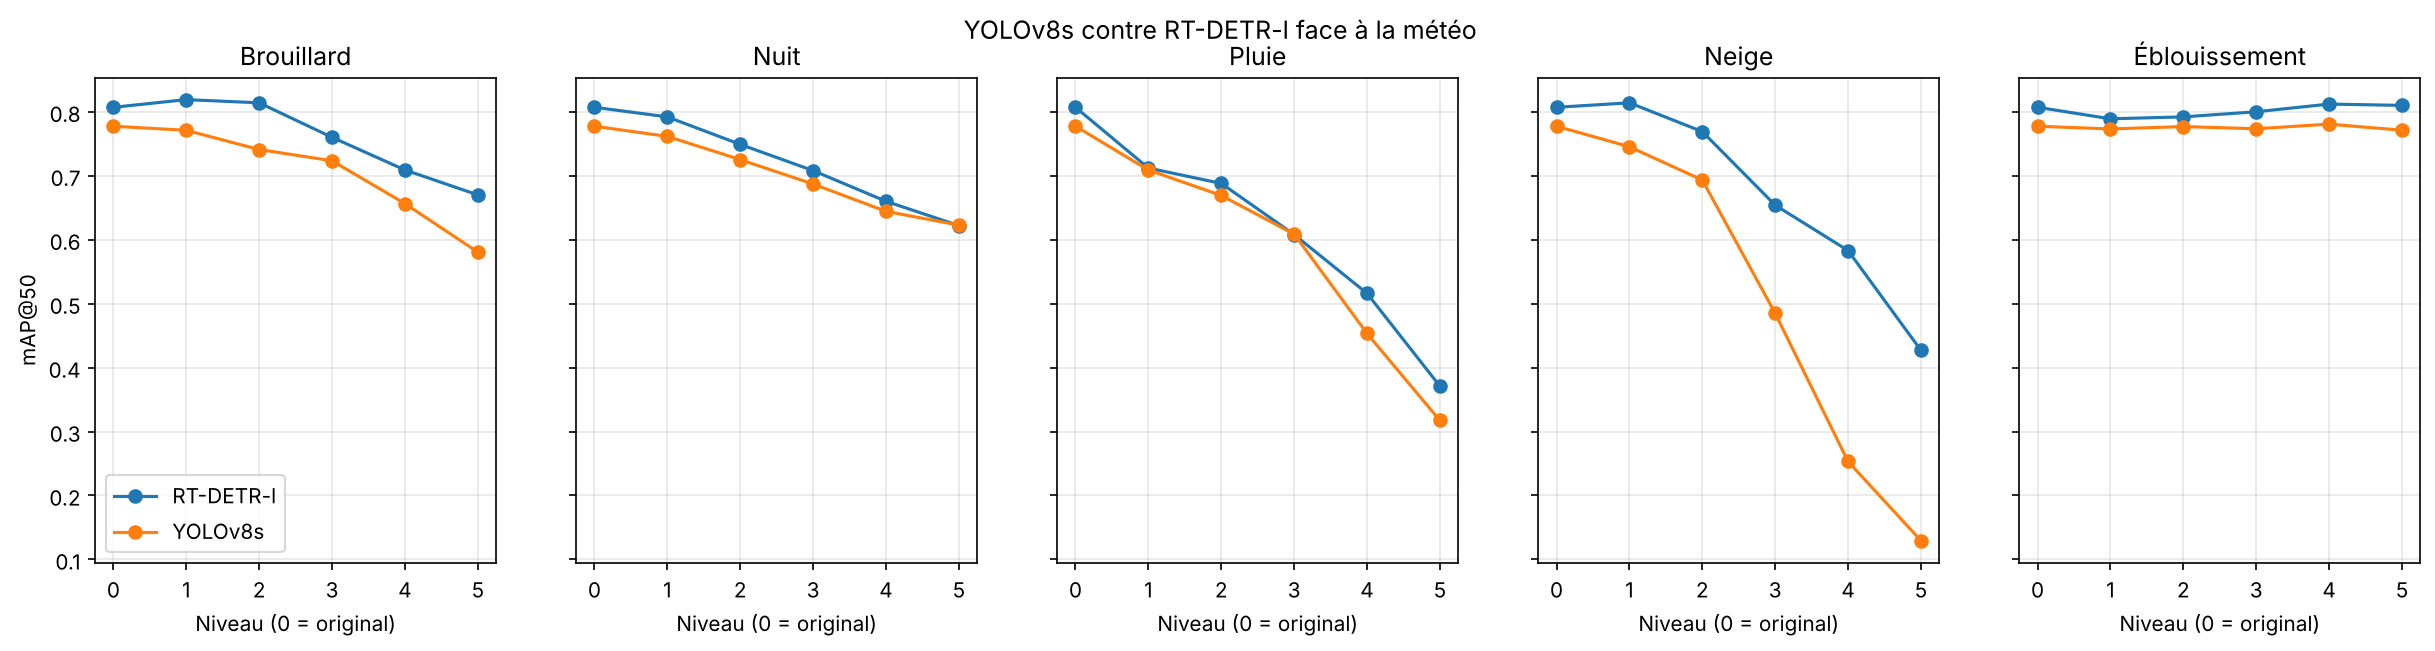
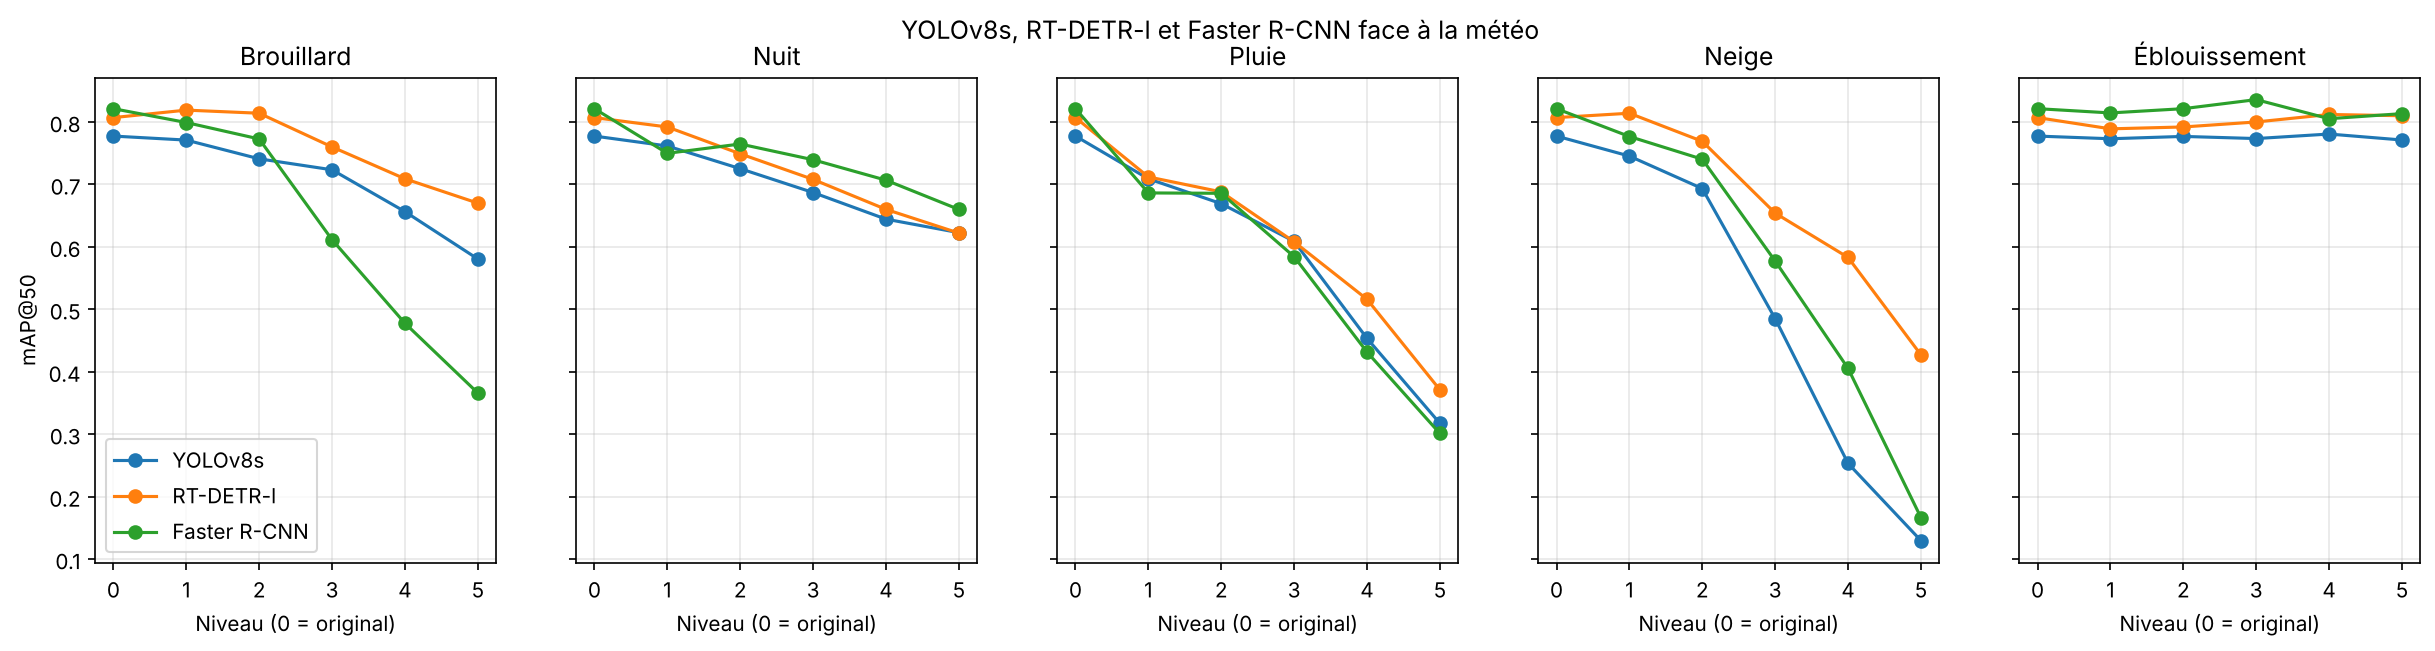
Ajout de Faster R-CNN et comparaison des trois modèles
Claude-Session: https://claude.ai/code/session_01PvPranHrCK1BK1BT28fqU1

diff --git a/README.md b/README.md
@@ -1,10 +1,10 @@
 # 🌦 Robustesse de la détection d'objets face à la météo
 
-Une caméra de contrôle routier travaille dehors, par tous les temps. Ce projet mesure et compare **à quel point deux détecteurs d'objets entraînés par beau temps perdent leurs moyens** (YOLOv8, un CNN, et RT-DETR, un transformer) quand la météo se dégrade : brouillard, nuit, pluie, neige et éblouissement, chacun à 5 niveaux d'intensité.
+Une caméra de contrôle routier travaille dehors, par tous les temps. Ce projet mesure et compare **à quel point trois détecteurs d'objets entraînés par beau temps perdent leurs moyens** (YOLOv8, CNN en une étape ; Faster R-CNN, CNN en deux étapes ; RT-DETR, transformer) quand la météo se dégrade : brouillard, nuit, pluie, neige et éblouissement, chacun à 5 niveaux d'intensité.
 
 > Projet réalisé dans le cadre de ma formation à l'ESMT Dakar, refait et documenté en 2026.
 
-![YOLOv8s contre RT-DETR-l face à la météo](assets/comparaison_modeles.png)
+![YOLOv8s, RT-DETR-l et Faster R-CNN face à la météo](assets/comparaison_modeles.png)
 
 ## 🎯 Problème métier
 Les systèmes de vidéo-verbalisation doivent repérer le **téléphone au volant** et le **défaut de ceinture**, en plus de la plaque et du véhicule. Un modèle excellent au soleil ne sert à rien s'il devient aveugle sous la pluie. La question posée : **quelle météo, et à partir de quel niveau, rend la détection inutilisable ?**
@@ -20,72 +20,82 @@ Les systèmes de vidéo-verbalisation doivent repérer le **téléphone au volan
 
 ## 🧪 Protocole
 1. Découpage des 500 images originales : **350 entraînement / 75 validation / 75 test** (graine 42).
-2. Entraînement de deux modèles pré-entraînés sur COCO, **uniquement sur les images originales** : 50 époques, 640 px, GPU T4 (Google Colab).
-   - **YOLOv8s** (CNN, 11,1 M paramètres) : 8 minutes d'entraînement.
-   - **RT-DETR-l** (transformer, 32,8 M paramètres) : 30 minutes d'entraînement.
+2. Entraînement de trois modèles pré-entraînés sur COCO, **uniquement sur les images originales**, sur GPU T4 (Google Colab) :
+   - **YOLOv8s** (Ultralytics, 11,1 M paramètres) : 50 époques, 640 px, 8 minutes.
+   - **RT-DETR-l** (Ultralytics, 32,8 M paramètres) : 50 époques, 640 px, 30 minutes.
+   - **Faster R-CNN** ResNet50-FPN v2 (torchvision) : 20 époques, SGD, meilleure époque choisie sur la validation, 20 minutes.
 3. Évaluation de chaque modèle sur **les mêmes 75 images de test**, dans chacune des 26 conditions.
 4. Métriques : **mAP@50** et **mAP@50-95**.
 
 ## 📈 Résultats
 
-### Par temps normal (validation, 75 images, 232 objets), mAP@50
+### Par temps normal
+
+| | YOLOv8s | RT-DETR-l | Faster R-CNN |
+|---|---|---|---|
+| mAP@50 validation (75 images) | 0,787 | 0,781 | 0,793 |
+| mAP@50 test, images originales | 0,777 | 0,807 | **0,821** |
+
+Par beau temps, les trois modèles se tiennent en quelques centièmes.
+
+Détail par classe en validation (mAP@50, Ultralytics) :
 
 | Classe | YOLOv8s | RT-DETR-l |
 |--------|---------|-----------|
-| **Toutes** | **0,787** | **0,781** |
 | Pare-brise | 0,995 | 0,995 |
 | Plaque | 0,988 | 0,994 |
 | Véhicule | 0,747 | 0,850 |
 | Téléphone | 0,691 | 0,500 |
 | Ceinture | 0,516 | 0,567 |
 
-Les deux modèles se valent par beau temps. Les petits objets (téléphone, ceinture) sont les plus difficiles pour les deux.
+Les petits objets (téléphone, ceinture) sont les plus difficiles.
 
 ### Face à la météo (test, mAP@50 au niveau 5, le plus extrême)
 
-| Météo | YOLOv8s | RT-DETR-l |
-|-------|---------|-----------|
-| Aucune (original) | 0,777 | 0,807 |
-| ❄ Neige | 0,129 (-83 %) | **0,427 (-47 %)** |
-| 🌧 Pluie | 0,317 (-59 %) | **0,371 (-54 %)** |
-| 🌫 Brouillard | 0,581 (-25 %) | **0,670 (-17 %)** |
-| 🌙 Nuit | 0,623 (-20 %) | 0,622 (-23 %) |
-| ☀ Éblouissement | 0,771 (-1 %) | 0,810 (0 %) |
+| Météo | YOLOv8s | RT-DETR-l | Faster R-CNN |
+|-------|---------|-----------|--------------|
+| ❄ Neige | 0,129 (-83 %) | **0,427 (-47 %)** | 0,166 (-80 %) |
+| 🌧 Pluie | 0,317 (-59 %) | **0,371 (-54 %)** | 0,301 (-63 %) |
+| 🌫 Brouillard | 0,581 (-25 %) | **0,670 (-17 %)** | 0,366 (-55 %) |
+| 🌙 Nuit | 0,623 (-20 %) | 0,622 (-23 %) | **0,660 (-20 %)** |
+| ☀ Éblouissement | 0,771 (-1 %) | 0,810 (0 %) | 0,813 (-1 %) |
 
-Tous les niveaux, avec le mAP@50-95 : [`results/resultats_yolov8s.csv`](results/resultats_yolov8s.csv) et [`results/resultats_rtdetr-l.csv`](results/resultats_rtdetr-l.csv).
+Tous les niveaux, avec le mAP@50-95 : dossier [`results/`](results/).
 
 ### Le prix de la robustesse (GPU T4)
 
-| | YOLOv8s | RT-DETR-l |
-|---|---|---|
-| Paramètres | 11,1 M | 32,8 M |
-| Entraînement (50 époques) | 8 min | 30 min |
-| Inférence par image | ≈ 11 ms | ≈ 43 ms |
+| | YOLOv8s | RT-DETR-l | Faster R-CNN |
+|---|---|---|---|
+| Paramètres | 11,1 M | 32,8 M | 43,3 M |
+| Entraînement | 8 min | 30 min | 20 min |
+| Inférence par image | ≈ 11 ms | ≈ 43 ms | ≈ 183 ms |
 
 ## 💡 Ce qu'il faut retenir
-- **La neige est la pire condition pour les deux modèles**, mais c'est là que l'écart est le plus grand : au niveau 5, RT-DETR garde **3 fois plus** de mAP@50 que YOLOv8 (0,427 contre 0,129).
-- **RT-DETR résiste mieux** à la neige, à la pluie et au brouillard. Une hypothèse : son attention globale (transformer) s'appuie sur le contexte de toute l'image quand les détails locaux disparaissent.
-- **La nuit les touche autant l'un que l'autre** (0,62 au niveau 5).
+- **Le meilleur modèle par beau temps n'est pas le plus robuste.** Faster R-CNN a le meilleur score sur les images originales (0,821), mais c'est le plus fragile au brouillard (-55 %) et il s'effondre presque autant que YOLOv8 sous la neige.
+- **RT-DETR est le plus robuste** à la neige, à la pluie et au brouillard. Sous forte neige, il garde **3 fois plus** de mAP@50 que YOLOv8. Une hypothèse : son attention globale (transformer) s'appuie sur le contexte de toute l'image quand les détails locaux disparaissent.
+- **Faster R-CNN est le meilleur la nuit**, de peu.
+- **La neige et la pluie fortes sont les pires conditions** pour les trois modèles.
 - **L'éblouissement n'a aucun effet mesurable** : la perturbation générée est probablement trop légère. C'est une limite du jeu de données, pas une preuve de robustesse.
-- **Ce gain se paie** : RT-DETR est 3 fois plus gros et environ 4 fois plus lent. Pour une caméra embarquée, YOLOv8 reste plus réaliste ; pour un traitement sur serveur, RT-DETR est plus fiable par mauvais temps.
+- **Le compromis vitesse/robustesse** : YOLOv8 est environ 4 fois plus rapide que RT-DETR et 16 fois plus rapide que Faster R-CNN. Pour une caméra embarquée, YOLOv8 reste le choix réaliste ; pour un traitement sur serveur par mauvais temps, RT-DETR est le plus fiable.
 
 ## ⚠ Limites
-- Jeu de test de 75 images : de petits écarts (quelques centièmes) ne sont pas significatifs. Par exemple, RT-DETR fait 0,819 au brouillard de niveau 1, un peu plus qu'au départ (0,807), ce qui relève du bruit.
+- Jeu de test de 75 images : de petits écarts (quelques centièmes) ne sont pas significatifs.
+- Le mAP de Faster R-CNN est calculé avec **torchmetrics** (protocole COCO), celui de YOLOv8 et RT-DETR avec **Ultralytics** : les méthodes sont proches mais pas identiques, la comparaison entre familles est donc indicative. Les temps d'inférence sont aussi mesurés de deux façons différentes.
+- Faster R-CNN a été entraîné 20 époques (et non 50) avec un autre optimiseur, comme c'est l'usage pour ce modèle.
 - Seulement **8 téléphones** en validation : le score de cette classe est fragile.
-- Les dégradations sont **synthétiques** : de vraies images de pluie ou de neige pourraient donner d'autres résultats.
-- Une seule graine d'entraînement par modèle, pas encore de barres d'erreur.
+- Les dégradations sont **synthétiques**, et une seule graine d'entraînement par modèle.
 
 ## 🔜 Prochaines étapes
-- Ajouter **Faster R-CNN** pour compléter la comparaison.
-- Tester un entraînement **avec augmentation météo** pour voir si YOLOv8 rattrape RT-DETR.
-- Analyser la chute **par classe** (téléphone et ceinture en particulier).
+- Entraîner **avec augmentation météo** pour voir si YOLOv8 rattrape RT-DETR.
+- Analyser la chute **par classe** sous la météo (téléphone et ceinture en particulier).
+- Évaluer sur de **vraies images** de pluie et de neige.
 
 ## 🛠 Stack
-Python · Ultralytics (YOLOv8, RT-DETR) · PyTorch · pandas · Matplotlib · Google Colab (GPU T4)
+Python · Ultralytics (YOLOv8, RT-DETR) · torchvision (Faster R-CNN) · torchmetrics · PyTorch · pandas · Matplotlib · Google Colab (GPU T4)
 
 ## ▶ Reproduire
 1. Mettre le dossier du jeu de données zippé (`results.zip`) à la racine de Google Drive.
-2. Ouvrir [`notebooks/robustesse_meteo.ipynb`](notebooks/robustesse_meteo.ipynb) dans Colab, choisir un GPU T4, puis exécuter les cellules dans l'ordre (sections 1 à 5 pour YOLOv8, 6 et 7 pour RT-DETR et la comparaison).
+2. Ouvrir [`notebooks/robustesse_meteo.ipynb`](notebooks/robustesse_meteo.ipynb) dans Colab, choisir un GPU T4, puis exécuter les cellules dans l'ordre (sections 1 à 5 pour YOLOv8, 6 et 7 pour RT-DETR, 8 pour Faster R-CNN).
 
 ---
 👩🏾💻 **Gnilane Faye**, élève-ingénieure IA & Data, ESMT Dakar · [LinkedIn](https://www.linkedin.com/in/gnilanefaye) · [GitHub](https://github.com/gnilanefaye)
